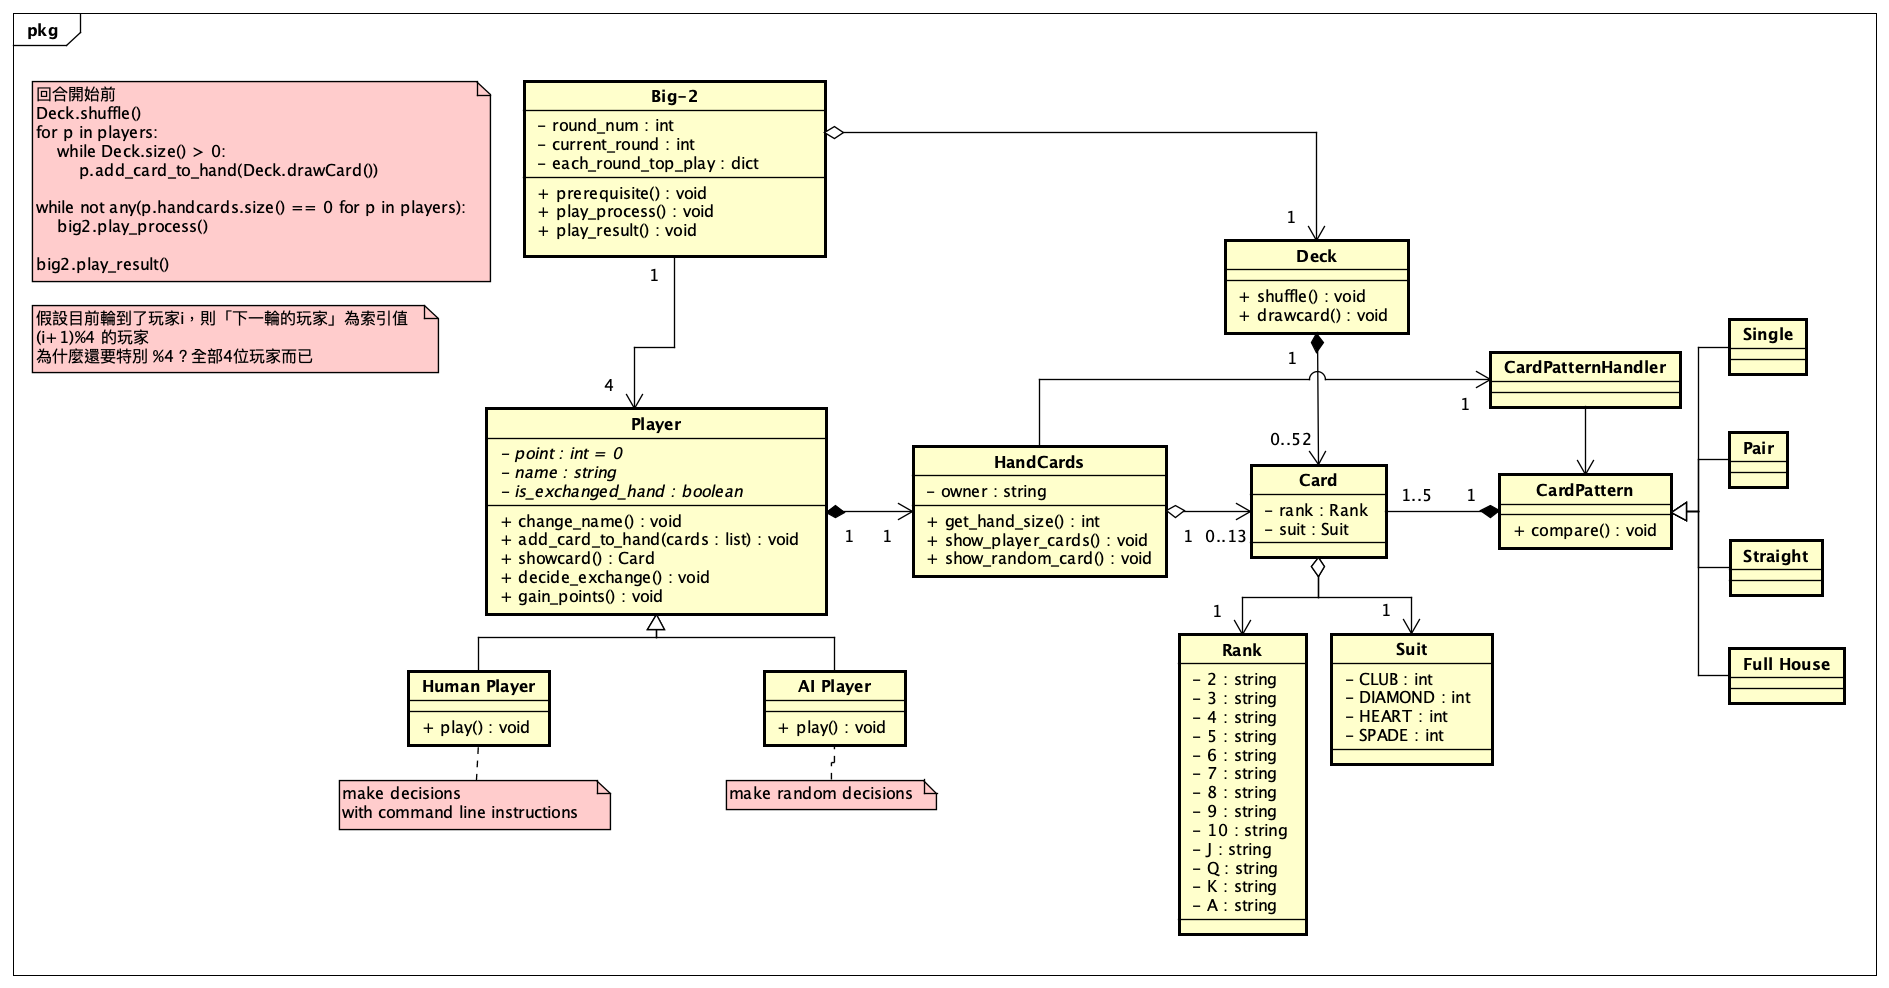
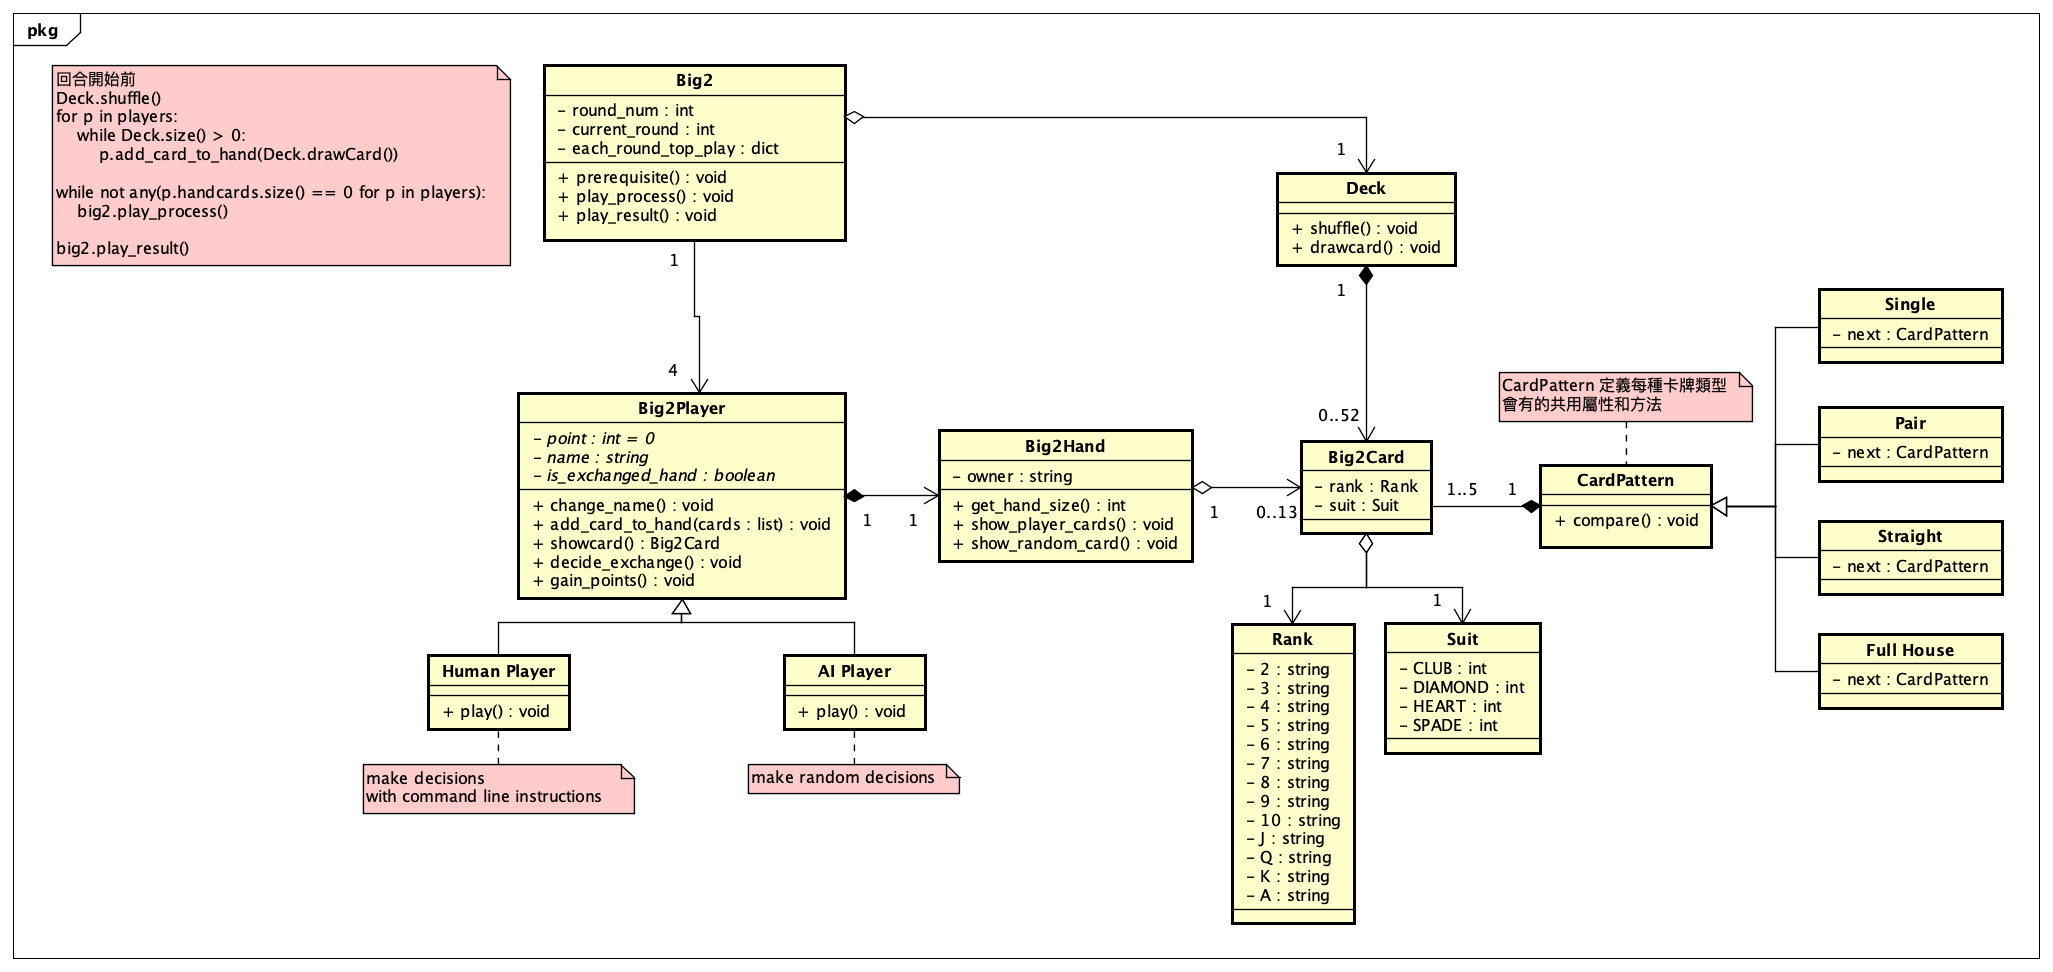
[other] Update previous hws

Changed region(s): [[0.1562, 0.1235, 0.9995, 0.9568], [0.0, 0.0, 0.4685, 0.4012], [0.8745, 0.6481, 0.9995, 0.7407]]

diff --git a/2.B.H/Big2/card.py b/2.B.H/Big2/card.py
@@ -52,10 +52,10 @@ class Big2Hand(Hand):
     def __init__(self) -> None:
         super().__init__()
 
-        from card_pattern_handler import CardPatternHandler
+        from card_pattern_chain import CardPatternChain
 
-        # 每位玩家有自己的 CardPatternHandler
-        self._card_pattern_handler = CardPatternHandler()
+        # 每位玩家有自己的 CardPatternChain
+        self._card_pattern_handler = CardPatternChain()
         self._card_pattern_handler.chain()
 
     def arrange_cards(self) -> None:

diff --git a/2.B.H/Big2/card_pattern_chain.py b/2.B.H/Big2/card_pattern_chain.py
@@ -2,7 +2,7 @@ from card_pattern import Single, Pair, Straight, FullHouse, CardPattern
 from typing import Callable
 
 
-class CardPatternHandler:
+class CardPatternChain:
     def __init__(self) -> None:
         self.single = Single()
         self.pair = Pair()
